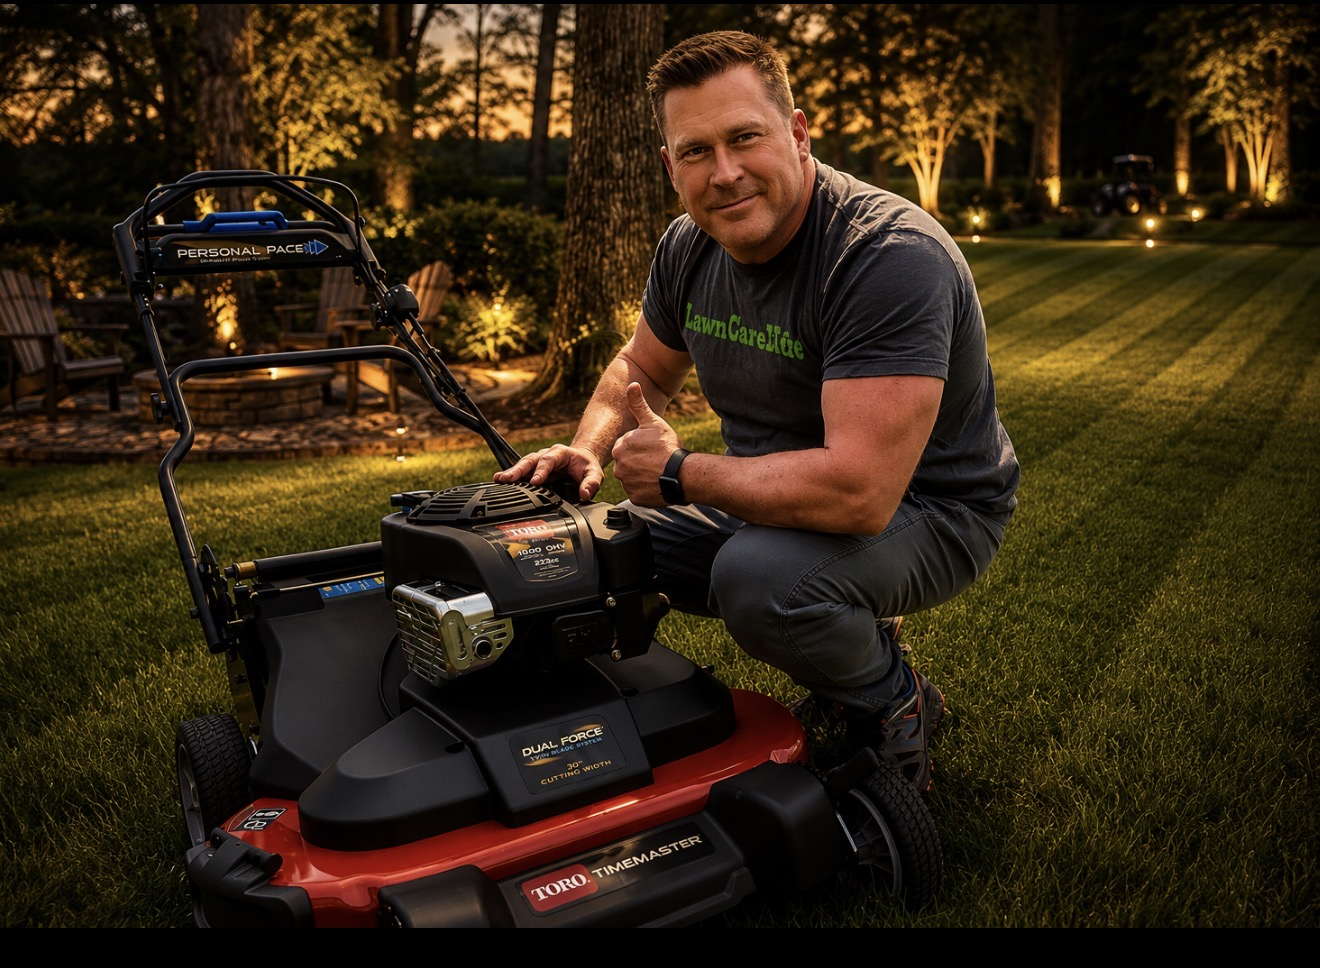
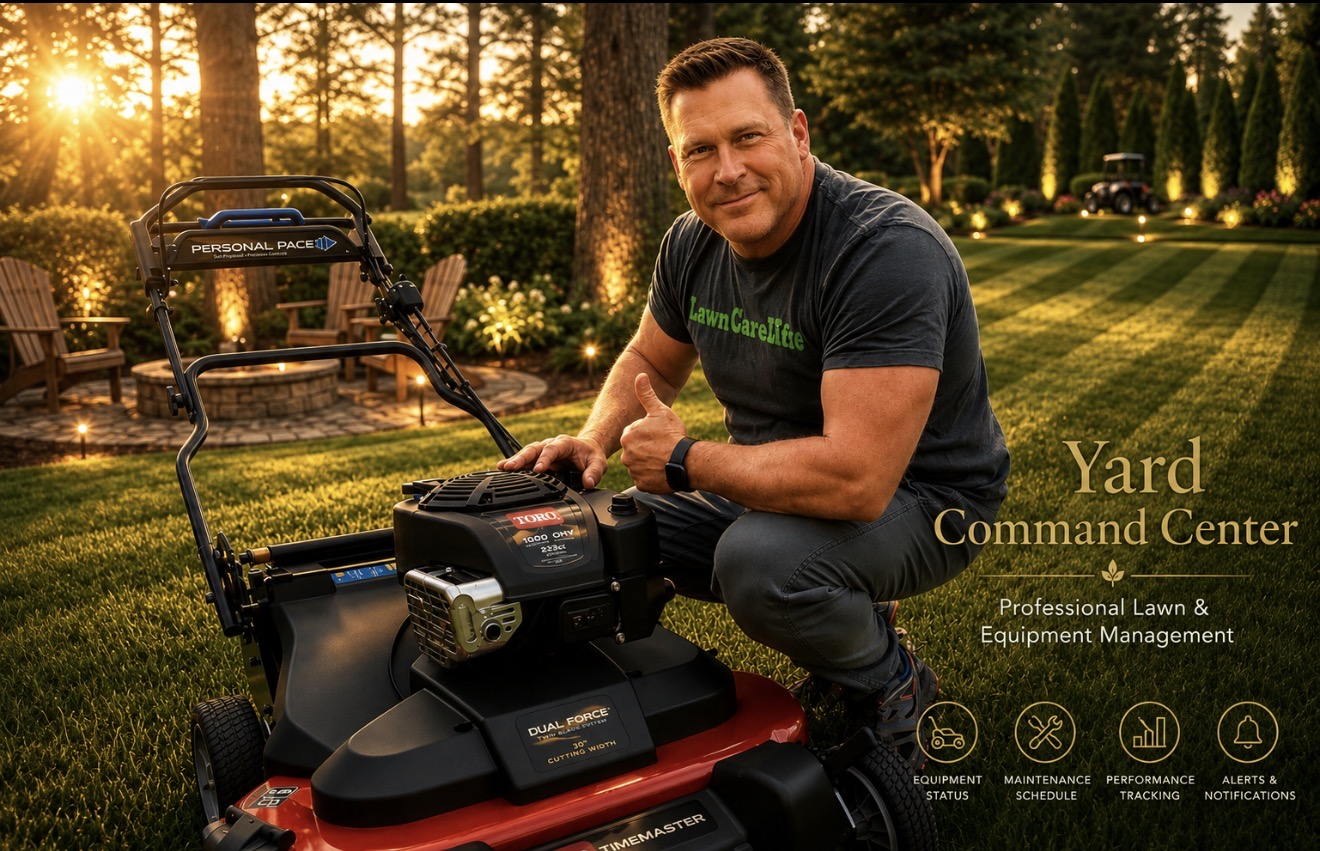
YARD hero photo + real aerial GPS map with calibration system
- Replace hero-yard.jpg with new Toro TimeMaster photo (text baked in)
- Add yard-aerial.jpg — real aerial photo of property (32.899480N, 97.033920W)
- Remove CSS text overlay from YARD hero (photo has it baked in)
- GPS map now uses the real aerial as fixed background (not rotated/stretched)
- Track color changed from green → Toro red (#cc0000); live position = blue dot
- Add Calibrate Map UI: tap 2+ points on aerial → enter GPS coords → saves to localStorage
- Calibrated mode: GPS track pinned to real positions on the aerial image
- Fallback auto-fit mode when no calibration is set (existing behavior preserved)
- Canvas height increased 220px → 320px to show full aerial property view

Claude-Session: https://claude.ai/code/session_01WuKnDJrDp2n6fHjhtahmLe

diff --git a/index.html b/index.html
@@ -964,18 +964,6 @@ html,body{
   <div class="sec-hero sec-hero-yard">
     <img src="./images/hero-yard.jpg" alt="Toro TimeMaster 30&quot;">
     <div class="sec-hero-overlay">
-      <div class="yard-hero-art">
-        <div class="yard-hero-title">Yard Command Center App</div>
-        <div class="yard-hero-rule"></div>
-        <div class="yard-hero-sub">Mow Smarter &bull; Track Every Cut</div>
-        <div class="yard-hero-icons">
-          <span>&#127807; Mow Log</span>
-          <span>&#128295; Service</span>
-          <span>&#128506; GPS</span>
-          <span>&#9201; Hours</span>
-          <span>&#128202; Diagnostics</span>
-        </div>
-      </div>
       <div class="sec-hero-status" id="yardHeroStatus"></div>
     </div>
   </div>
@@ -1123,10 +1111,37 @@ html,body{
     <div style="font-size:9px;color:#666;text-align:center;margin-top:2px">10,000 sq ft yard &middot; GPS sensor feeds miles + speed &middot; 30&Prime; swath &middot; gentle slope (+20% cal)</div>
   </div>
   <div class="card cat-gps">
-    <div class="card-title">&#128506; Yard Map &bull; GPS Mowing Track</div>
-    <div style="font-size:11px;color:var(--muted);margin-bottom:8px;line-height:1.5">Drawn from the WiFi sensor&rsquo;s GPS as you mow. Each pass adds to the map, so your yard&rsquo;s shape fills in over time. North is up.</div>
-    <canvas id="yardMap" style="width:100%;height:220px;display:block;background:#0c130c;border:1px solid var(--border);border-radius:8px"></canvas>
+    <div class="card-title">&#128506; Yard Map &bull; GPS Mowing Track <span id="mapCalibBadge" style="display:none;font-size:10px;font-weight:600;color:#d4af37;margin-left:6px">&#128205; Calibrated</span></div>
+    <div style="font-size:11px;color:var(--muted);margin-bottom:8px;line-height:1.5">Real aerial photo of your property. Mowing path draws in Toro red as you go. Tap <strong style="color:#d4af37">Calibrate Map</strong> to lock the GPS track to the aerial image.</div>
+    <div style="position:relative">
+      <canvas id="yardMap" style="width:100%;height:320px;display:block;border-radius:8px;cursor:default" onclick="onMapClick(event)" ontouchstart="onMapClick(event)"></canvas>
+      <div id="calibDot" style="display:none;position:absolute;width:16px;height:16px;border-radius:50%;background:#ffd700;border:2px solid #fff;transform:translate(-50%,-50%);pointer-events:none;box-shadow:0 0 10px rgba(255,215,0,.9)"></div>
+    </div>
     <div id="yardMapMsg" style="font-size:10px;color:#666;text-align:center;margin-top:6px">No GPS track yet &mdash; it&rsquo;ll appear after your first mow with the sensor installed.</div>
+    <div id="mapCalibPanel" style="display:none;background:rgba(15,25,15,.96);border:1px solid #3a5a3a;border-radius:8px;padding:13px;margin-top:10px">
+      <div style="color:#d4af37;font-weight:700;font-size:13px;margin-bottom:6px">&#128205; Map Calibration</div>
+      <div id="calibStatus" style="color:#9ab9ab;font-size:12px;margin-bottom:10px;line-height:1.6">Tap a known point on the aerial map above, then enter its GPS coordinates and tap Add Point. Repeat for a second point (ideally front yard and back yard).</div>
+      <div id="calibPointList" style="margin-bottom:8px;font-size:11px"></div>
+      <div style="display:grid;grid-template-columns:1fr 1fr;gap:8px;margin-bottom:10px">
+        <div>
+          <div style="font-size:10px;color:#9ab9ab;margin-bottom:3px">Latitude (e.g. 32.8995)</div>
+          <input id="calibLat" type="number" step="0.000001" placeholder="32.8995" style="width:100%;box-sizing:border-box;background:#0a120a;border:1px solid #3a5a3a;color:#ede8df;padding:8px;border-radius:5px;font-size:13px">
+        </div>
+        <div>
+          <div style="font-size:10px;color:#9ab9ab;margin-bottom:3px">Longitude (e.g. -97.0339)</div>
+          <input id="calibLon" type="number" step="0.000001" placeholder="-97.0339" style="width:100%;box-sizing:border-box;background:#0a120a;border:1px solid #3a5a3a;color:#ede8df;padding:8px;border-radius:5px;font-size:13px">
+        </div>
+      </div>
+      <div style="display:flex;gap:8px">
+        <button onclick="addCalibPt()" style="flex:1;background:#1a3a1a;border:1px solid #4a8a4a;color:#7ee787;padding:9px;border-radius:7px;font-size:13px;font-weight:600">+ Add Point</button>
+        <button onclick="saveMapCalib()" style="flex:1;background:#1a1a08;border:1px solid #d4af37;color:#d4af37;padding:9px;border-radius:7px;font-size:13px;font-weight:600">&#10003; Save</button>
+        <button onclick="cancelMapCalib()" style="background:#2a1212;border:1px solid #6a3030;color:#ff6262;padding:9px 13px;border-radius:7px;font-size:13px">&#10005;</button>
+      </div>
+    </div>
+    <div id="calibBtnRow" style="margin-top:10px;display:flex;gap:8px">
+      <button onclick="startMapCalib()" style="flex:1;background:#121a12;border:1px solid #2a4a2a;color:#9ab9ab;padding:9px;border-radius:7px;font-size:12px">&#128205; Calibrate Map</button>
+      <button onclick="clearMapCalib()" id="clearCalibBtn" style="display:none;background:#1a1212;border:1px solid #5a2a2a;color:#ff6262;padding:9px 14px;border-radius:7px;font-size:12px">&#10005; Clear</button>
+    </div>
   </div>
   <div class="card cat-activity">
     <div class="card-title">&#128336; Recent Activity</div>
@@ -2874,72 +2889,245 @@ loadAlerts();
       });
   };
 
-  // Preload the property plat map for GPS underlay
+  // Preload the aerial property map for GPS overlay
   (function(){
     var img=new Image();
     img.onload=function(){ window._platMapImg=img; if(window._lastTrack) drawYardMap(window._lastTrack); };
     img.onerror=function(){ window._platMapImg=null; };
-    img.src='./images/plat-map.jpg';
+    img.src='./images/yard-aerial.jpg';
   })();
 
-  // Render the GPS track with property plat map as underlay (no external tiles/API keys).
+  // \u2500\u2500 MAP CALIBRATION \u2500\u2500\u2500\u2500\u2500\u2500\u2500\u2500\u2500\u2500\u2500\u2500\u2500\u2500\u2500\u2500\u2500\u2500\u2500\u2500\u2500\u2500\u2500\u2500\u2500\u2500\u2500\u2500\u2500\u2500\u2500\u2500\u2500\u2500\u2500\u2500\u2500\u2500\u2500\u2500\u2500\u2500\u2500\u2500\u2500\u2500\u2500\u2500\u2500\u2500\u2500\u2500\u2500\u2500
+  var _mapCalib=null, _calibMode=false, _calibPending=[], _pendingDot=null;
+  (function(){
+    try{ var s=localStorage.getItem('yard_map_calib'); if(s) _mapCalib=JSON.parse(s); }catch(e){}
+  })();
+
+  function _refreshCalibUI(){
+    var badge=document.getElementById('mapCalibBadge');
+    var clearBtn=document.getElementById('clearCalibBtn');
+    if(badge) badge.style.display=(_mapCalib&&_mapCalib.length>=2)?'':'none';
+    if(clearBtn) clearBtn.style.display=(_mapCalib&&_mapCalib.length>=2)?'':'none';
+  }
+
+  function gpsToXY(lat,lon,w,h){
+    if(!_mapCalib||_mapCalib.length<2) return null;
+    var p1=_mapCalib[0],p2=_mapCalib[1];
+    var dLon=p2.lon-p1.lon, dLat=p2.lat-p1.lat;
+    if(Math.abs(dLon)<1e-10||Math.abs(dLat)<1e-10) return null;
+    var nx=p1.fx+(lon-p1.lon)*(p2.fx-p1.fx)/dLon;
+    var ny=p1.fy+(lat-p1.lat)*(p2.fy-p1.fy)/dLat;
+    return {x:nx*w, y:ny*h};
+  }
+
+  function _calibStatusMsg(){
+    var el=document.getElementById('calibStatus'); if(!el) return;
+    el.style.color='#9ab9ab';
+    if(_calibPending.length===0&&!_pendingDot)
+      el.textContent='Tap a known point on the aerial map above, then enter its GPS coordinates.';
+    else if(_pendingDot&&_calibPending.length===0)
+      el.textContent='Point #1 tapped \u2713 \u2014 enter the GPS coordinates below, then tap Add Point.';
+    else if(_calibPending.length===1&&!_pendingDot)
+      el.textContent='Point #1 saved \u2713 \u2014 now tap a second point on the map (e.g. back corner of yard).';
+    else if(_calibPending.length===1&&_pendingDot)
+      el.textContent='Point #2 tapped \u2713 \u2014 enter the GPS coordinates, then tap Add Point.';
+    else
+      el.textContent=_calibPending.length+' points saved \u2713 \u2014 tap Save to apply, or add more points for better accuracy.';
+    var list=document.getElementById('calibPointList'); if(!list) return;
+    var html='';
+    for(var i=0;i<_calibPending.length;i++){
+      var p=_calibPending[i];
+      html+='<div style="color:#7ee787;margin-bottom:2px">\u2713 Pt '+(i+1)+': '+p.lat.toFixed(6)+'\u00b0N, '+p.lon.toFixed(6)+'\u00b0</div>';
+    }
+    list.innerHTML=html;
+  }
+
+  function startMapCalib(){
+    _calibMode=true; _calibPending=[]; _pendingDot=null;
+    var panel=document.getElementById('mapCalibPanel');
+    var btnRow=document.getElementById('calibBtnRow');
+    if(panel) panel.style.display='';
+    if(btnRow) btnRow.style.display='none';
+    var c=document.getElementById('yardMap'); if(c) c.style.cursor='crosshair';
+    _calibStatusMsg();
+    drawYardMap(window._lastTrack||[]);
+  }
+
+  function cancelMapCalib(){
+    _calibMode=false; _pendingDot=null; _calibPending=[];
+    var panel=document.getElementById('mapCalibPanel');
+    var btnRow=document.getElementById('calibBtnRow');
+    var dot=document.getElementById('calibDot');
+    if(panel) panel.style.display='none';
+    if(btnRow) btnRow.style.display='flex';
+    if(dot) dot.style.display='none';
+    var c=document.getElementById('yardMap'); if(c) c.style.cursor='default';
+    drawYardMap(window._lastTrack||[]);
+  }
+
+  function onMapClick(e){
+    if(!_calibMode) return;
+    e.preventDefault();
+    var c=document.getElementById('yardMap'); if(!c) return;
+    var rect=c.getBoundingClientRect();
+    var src=e.touches?e.touches[0]:e;
+    var cx=src.clientX-rect.left, cy=src.clientY-rect.top;
+    _pendingDot={fx:cx/rect.width, fy:cy/rect.height};
+    var dot=document.getElementById('calibDot');
+    if(dot){ dot.style.display=''; dot.style.left=cx+'px'; dot.style.top=cy+'px'; }
+    _calibStatusMsg();
+    drawYardMap(window._lastTrack||[]);
+  }
+
+  function addCalibPt(){
+    if(!_pendingDot){
+      var el=document.getElementById('calibStatus');
+      if(el){ el.style.color='#ff9944'; el.textContent='Tap a point on the aerial map first, then enter its coordinates.'; }
+      return;
+    }
+    var lat=parseFloat(document.getElementById('calibLat').value);
+    var lon=parseFloat(document.getElementById('calibLon').value);
+    var el=document.getElementById('calibStatus');
+    if(isNaN(lat)||isNaN(lon)||Math.abs(lat)>90||Math.abs(lon)>180){
+      if(el){ el.style.color='#ff6262'; el.textContent='Invalid coordinates \u2014 enter latitude like 32.8995 and longitude like -97.0339'; }
+      return;
+    }
+    _calibPending.push({fx:_pendingDot.fx, fy:_pendingDot.fy, lat:lat, lon:lon});
+    _pendingDot=null;
+    document.getElementById('calibLat').value='';
+    document.getElementById('calibLon').value='';
+    var dot=document.getElementById('calibDot'); if(dot) dot.style.display='none';
+    _calibStatusMsg();
+    drawYardMap(window._lastTrack||[]);
+  }
+
+  function saveMapCalib(){
+    if(_calibPending.length<2){
+      var el=document.getElementById('calibStatus');
+      if(el){ el.style.color='#ff6262'; el.textContent='Need at least 2 calibration points before saving.'; }
+      return;
+    }
+    _mapCalib=_calibPending.slice();
+    localStorage.setItem('yard_map_calib',JSON.stringify(_mapCalib));
+    cancelMapCalib();
+    _refreshCalibUI();
+    drawYardMap(window._lastTrack||[]);
+  }
+
+  function clearMapCalib(){
+    _mapCalib=null;
+    localStorage.removeItem('yard_map_calib');
+    _refreshCalibUI();
+    drawYardMap(window._lastTrack||[]);
+  }
+
+  // \u2500\u2500 DRAW GPS TRACK \u2500\u2500\u2500\u2500\u2500\u2500\u2500\u2500\u2500\u2500\u2500\u2500\u2500\u2500\u2500\u2500\u2500\u2500\u2500\u2500\u2500\u2500\u2500\u2500\u2500\u2500\u2500\u2500\u2500\u2500\u2500\u2500\u2500\u2500\u2500\u2500\u2500\u2500\u2500\u2500\u2500\u2500\u2500\u2500\u2500\u2500\u2500\u2500\u2500\u2500\u2500\u2500\u2500\u2500\u2500
   function drawYardMap(track){
     var c=document.getElementById('yardMap'); if(!c) return;
     var msg=document.getElementById('yardMapMsg');
     var ctx=c.getContext('2d');
     window._lastTrack=track;
-    var w=c.clientWidth||300, h=c.clientHeight||220;
+    var w=c.clientWidth||300, h=c.clientHeight||320;
     c.width=w; c.height=h;
     ctx.clearRect(0,0,w,h);
-    // Draw property plat map underlay (aerial photo of property)
+
+    // Draw aerial base image \u2014 fixed, not rotated or stretched
     if(window._platMapImg){
       var img=window._platMapImg;
       var iw=img.naturalWidth, ih=img.naturalHeight;
-      var sc=Math.max(w/iw, h/ih);
+      var sc=Math.min(w/iw, h/ih);
       var dw=iw*sc, dh=ih*sc, dx=(w-dw)/2, dy=(h-dh)/2;
-      ctx.globalAlpha=0.5;
       ctx.drawImage(img,dx,dy,dw,dh);
-      ctx.globalAlpha=1;
-      ctx.fillStyle='rgba(0,0,0,0.28)';
+      ctx.fillStyle='rgba(0,0,0,0.18)';
+      ctx.fillRect(0,0,w,h);
+    } else {
+      ctx.fillStyle='#0c1a0c';
       ctx.fillRect(0,0,w,h);
     }
-    if(!track || track.length<2){
-      if(msg) msg.textContent='No GPS track yet \u2014 it\u2019ll appear after your first mow with the sensor installed.';
+
+    // Calibration mode: show tapped points on canvas
+    if(_calibMode){
+      for(var ci=0;ci<_calibPending.length;ci++){
+        var cp=_calibPending[ci];
+        var cpx=cp.fx*w, cpy=cp.fy*h;
+        ctx.shadowColor='#ffd700'; ctx.shadowBlur=10;
+        ctx.fillStyle='#ffd700';
+        ctx.beginPath(); ctx.arc(cpx,cpy,8,0,Math.PI*2); ctx.fill();
+        ctx.shadowBlur=0;
+        ctx.fillStyle='#000'; ctx.font='bold 11px sans-serif';
+        ctx.textAlign='center'; ctx.textBaseline='middle';
+        ctx.fillText(ci+1,cpx,cpy);
+      }
+      if(msg) msg.textContent=_calibPending.length===0?'Tap the aerial map to set calibration point #1':_calibPending.length+' point(s) set \u2014 add more or tap Save';
       return;
     }
+
+    if(!track||track.length<2){
+      if(msg) msg.textContent='No GPS track yet \u2014 it\u2019ll draw on your first mow with the sensor running.';
+      return;
+    }
+
+    // Calibrated mode: GPS \u2192 pixel via stored calibration
+    if(_mapCalib&&_mapCalib.length>=2){
+      var pts=[];
+      for(var j=0;j<track.length;j++){
+        var pt=gpsToXY(track[j][0],track[j][1],w,h);
+        if(pt) pts.push(pt);
+      }
+      if(pts.length>=2){
+        ctx.shadowColor='#cc0000'; ctx.shadowBlur=5;
+        ctx.lineWidth=3; ctx.strokeStyle='#cc0000';
+        ctx.lineJoin='round'; ctx.lineCap='round';
+        ctx.beginPath(); ctx.moveTo(pts[0].x,pts[0].y);
+        for(var k=1;k<pts.length;k++) ctx.lineTo(pts[k].x,pts[k].y);
+        ctx.stroke(); ctx.shadowBlur=0;
+        var last=pts[pts.length-1];
+        ctx.fillStyle='#4da3ff'; ctx.shadowColor='#4da3ff'; ctx.shadowBlur=8;
+        ctx.beginPath(); ctx.arc(last.x,last.y,6,0,Math.PI*2); ctx.fill();
+        ctx.shadowBlur=0;
+        if(msg) msg.textContent=track.length+' GPS points \u00b7 red = mow path \u00b7 blue = current position';
+        return;
+      }
+    }
+
+    // Fallback auto-fit mode (no calibration set)
     var minLa=track[0][0],maxLa=track[0][0],minLo=track[0][1],maxLo=track[0][1];
     for(var i=1;i<track.length;i++){
       var la=track[i][0],lo=track[i][1];
       if(la<minLa)minLa=la; if(la>maxLa)maxLa=la;
       if(lo<minLo)minLo=lo; if(lo>maxLo)maxLo=lo;
     }
-    var midLa=(minLa+maxLa)/2;
-    var lonScale=Math.cos(midLa*Math.PI/180)||1;
-    var pts=track.map(function(p){ return [ (p[1]-minLo)*lonScale, (maxLa-p[0]) ]; });
-    var minX=pts[0][0],maxX=pts[0][0],minY=pts[0][1],maxY=pts[0][1];
-    for(var j=1;j<pts.length;j++){
-      if(pts[j][0]<minX)minX=pts[j][0]; if(pts[j][0]>maxX)maxX=pts[j][0];
-      if(pts[j][1]<minY)minY=pts[j][1]; if(pts[j][1]>maxY)maxY=pts[j][1];
+    var midLa=(minLa+maxLa)/2, lonScale=Math.cos(midLa*Math.PI/180)||1;
+    var apts=track.map(function(p){ return [(p[1]-minLo)*lonScale,(maxLa-p[0])]; });
+    var ax=apts[0][0],bx=apts[0][0],ay=apts[0][1],by=apts[0][1];
+    for(var jj=1;jj<apts.length;jj++){
+      if(apts[jj][0]<ax)ax=apts[jj][0]; if(apts[jj][0]>bx)bx=apts[jj][0];
+      if(apts[jj][1]<ay)ay=apts[jj][1]; if(apts[jj][1]>by)by=apts[jj][1];
     }
-    var spanX=(maxX-minX)||1e-9, spanY=(maxY-minY)||1e-9, pad=18;
-    var scale=Math.min((w-2*pad)/spanX,(h-2*pad)/spanY);
-    var offX=(w-spanX*scale)/2, offY=(h-spanY*scale)/2;
-    function sx(q){ return offX+(q[0]-minX)*scale; }
-    function sy(q){ return offY+(q[1]-minY)*scale; }
-    // Glow effect for track
-    ctx.shadowColor='#7ee787'; ctx.shadowBlur=4;
-    ctx.lineWidth=2.5; ctx.strokeStyle='#7ee787'; ctx.lineJoin='round'; ctx.lineCap='round';
+    var spanX=(bx-ax)||1e-9,spanY=(by-ay)||1e-9,pad=22;
+    var asc=Math.min((w-2*pad)/spanX,(h-2*pad)/spanY);
+    var aox=(w-spanX*asc)/2, aoy=(h-spanY*asc)/2;
+    function sx(q){ return aox+(q[0]-ax)*asc; }
+    function sy(q){ return aoy+(q[1]-ay)*asc; }
+    ctx.shadowColor='#cc0000'; ctx.shadowBlur=4;
+    ctx.lineWidth=2.5; ctx.strokeStyle='#cc0000'; ctx.lineJoin='round'; ctx.lineCap='round';
     ctx.beginPath();
-    for(var k=0;k<pts.length;k++){ var X=sx(pts[k]),Y=sy(pts[k]); if(k===0)ctx.moveTo(X,Y); else ctx.lineTo(X,Y); }
-    ctx.stroke();
+    for(var kk=0;kk<apts.length;kk++){ var X=sx(apts[kk]),Y=sy(apts[kk]); if(kk===0)ctx.moveTo(X,Y); else ctx.lineTo(X,Y); }
+    ctx.stroke(); ctx.shadowBlur=0;
+    ctx.fillStyle='#4da3ff'; ctx.shadowColor='#4da3ff'; ctx.shadowBlur=6;
+    ctx.beginPath(); ctx.arc(sx(apts[apts.length-1]),sy(apts[apts.length-1]),6,0,Math.PI*2); ctx.fill();
     ctx.shadowBlur=0;
-    // start (blue) and current/last (red) markers
-    ctx.fillStyle='#4da3ff'; ctx.beginPath(); ctx.arc(sx(pts[0]),sy(pts[0]),5,0,Math.PI*2); ctx.fill();
-    ctx.fillStyle='#ff6b6b'; var L=pts[pts.length-1]; ctx.beginPath(); ctx.arc(sx(L),sy(L),5,0,Math.PI*2); ctx.fill();
-    if(msg) msg.textContent=track.length+' GPS points \u00b7 blue = start, red = latest';
+    if(msg) msg.textContent=track.length+' GPS points \u00b7 tap Calibrate Map to anchor track to the aerial photo';
   }
-  window.drawYardMap = drawYardMap;
-  window.addEventListener('resize', function(){ if(window._lastTrack) drawYardMap(window._lastTrack); });
+  window.drawYardMap=drawYardMap;
+  window.onMapClick=onMapClick;
+  window.startMapCalib=startMapCalib;
+  window.cancelMapCalib=cancelMapCalib;
+  window.addCalibPt=addCalibPt;
+  window.saveMapCalib=saveMapCalib;
+  window.clearMapCalib=clearMapCalib;
+  _refreshCalibUI();
+  window.addEventListener('resize',function(){ if(window._lastTrack) drawYardMap(window._lastTrack); });
 
   // Silent auto-sync shortly after the page finishes its initial render.
   setTimeout(function(){ window.mowerSync(false); }, 1200);
